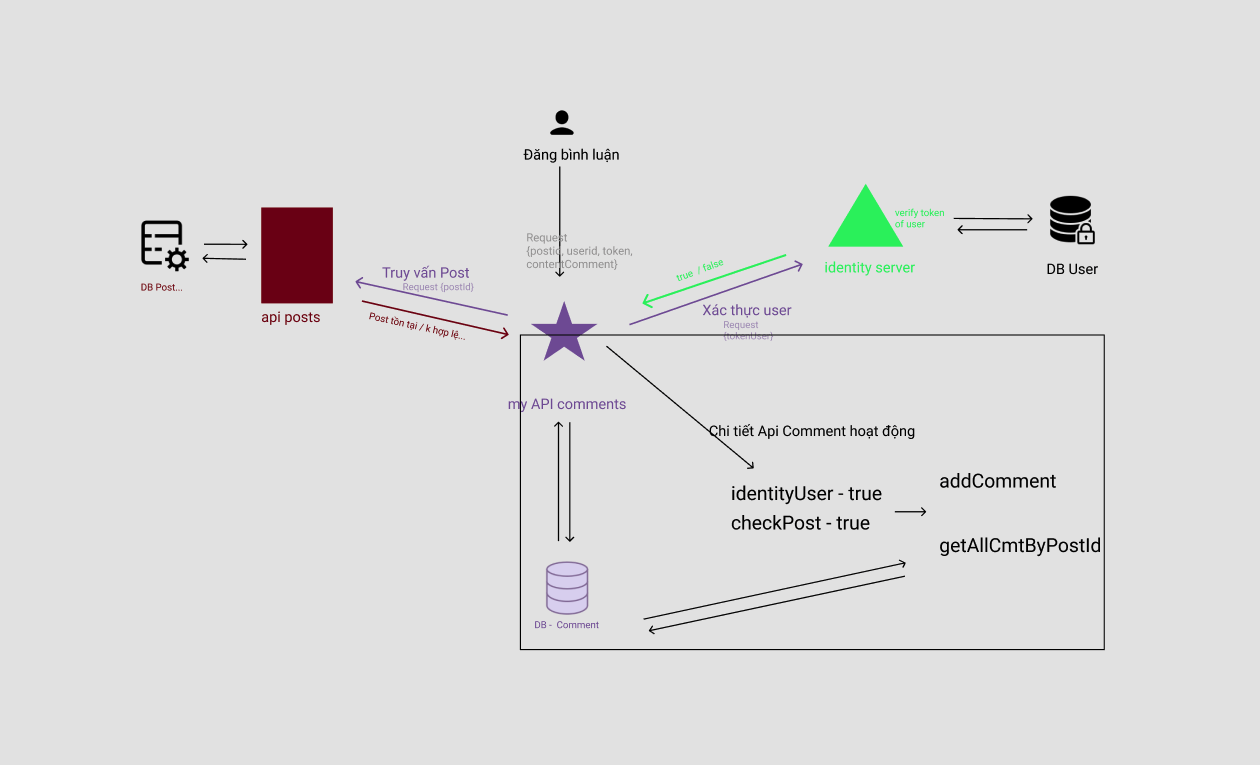
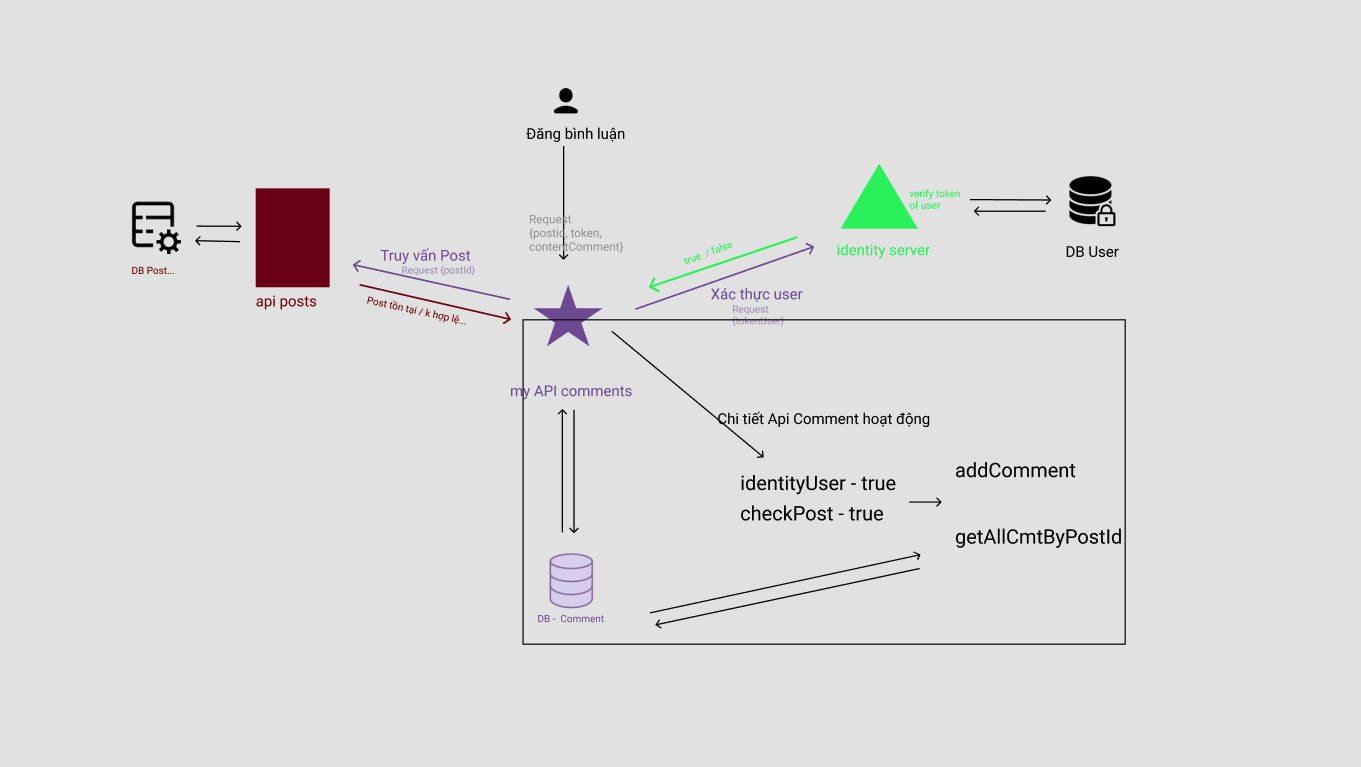
upload desc

diff --git a/controllers/commentController.js b/controllers/commentController.js
@@ -6,8 +6,11 @@ exports.addComment = async (req, res) => {
         const newComment = new Comment();
         newComment.content = req.body.content
         newComment.postid = req.body.postid
-        newComment.userid = req.body.userid
-        newComment.parendid = req.body.parendid
+
+        // If have real token, will get userid by this way > const userid = req.user.id
+        // in this case because i dont have real data token to extract userid  
+        // I will use req.body.userid as sample data
+        newComment.userid = req.body.userid  
         await newComment.save()
             .then(() => res.status(201).json({
                 newComment,

diff --git a/middlewares/indentityUser.js b/middlewares/indentityUser.js
@@ -1,6 +1,11 @@
 exports.identityUser = async (req, res, next) => {
-    // Check if user exist and token validation
-    // return next()
+    // From req.headers, we get the tokenUser
+    // Verify token and check token valid + userid exist in DB
+    // If token verified & user exist, return user 
+
+    console.log("Token verified");
     next();
 }
+
+
 

diff --git a/README.md b/README.md
@@ -1,9 +1,10 @@
-1. install & run server: 
+1. Connect MongoDb 
+2. install & run server: 
 
     - npm i
     - npm start
 
-2. Test Api: 
+3. Test Api: 
 
 - Add Comment:
 localhost:5001/comments
